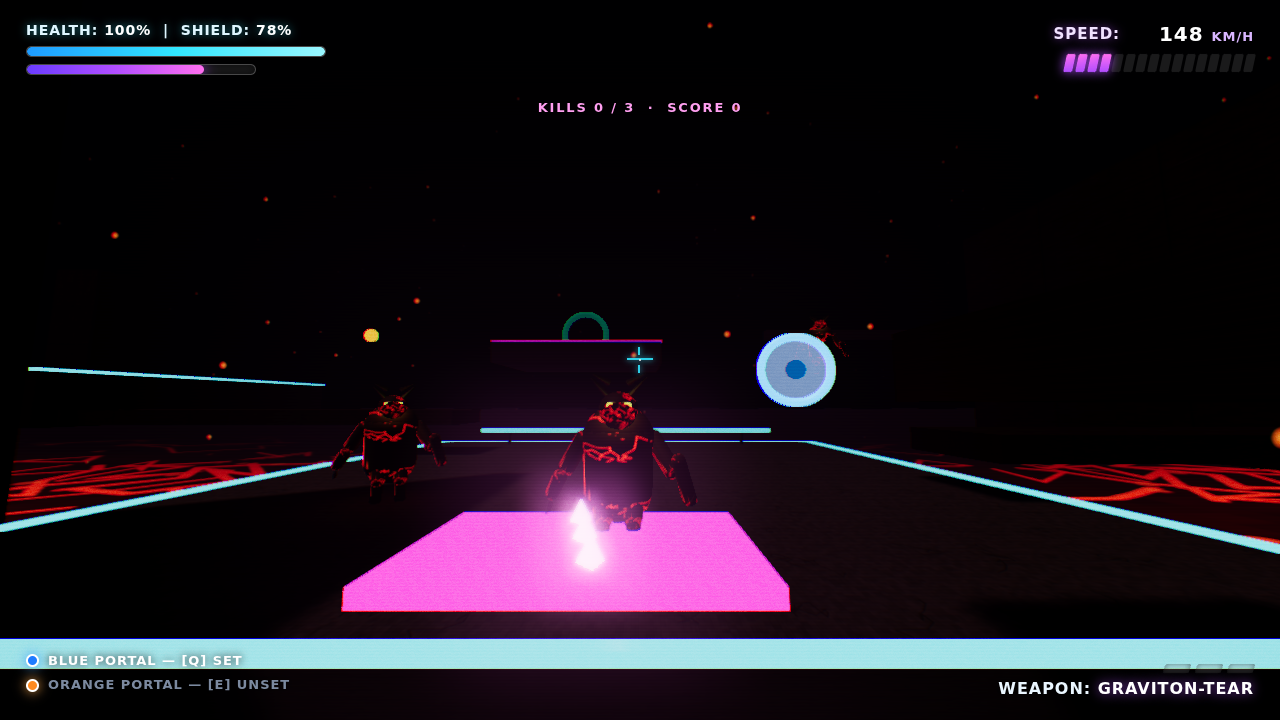
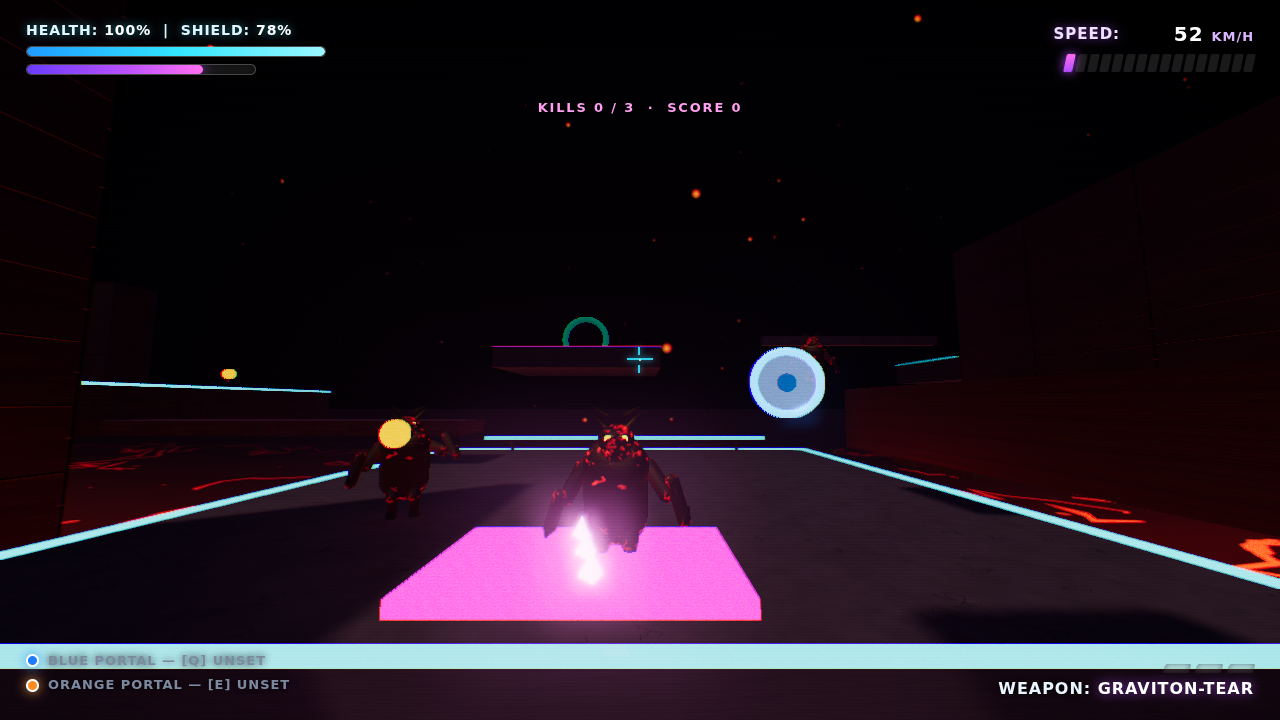
Realism pass: image-based lighting + smooth fractal textures
Address the "looks 8-bit" feedback by moving from flat CGI toward a
real-time-realistic look, still fully self-contained:

- Image-based lighting: procedural PMREM environment map so PBR metals
  reflect the room and lava instead of reading as flat colour.
- Replace blocky cell-noise with smooth multi-octave fbm noise at 1K, add
  micro-relief to normal maps and dedicated roughness maps — removes the
  pixelated/retro texture feel.
- Retune materials for real reflectivity (higher metalness + envMapIntensity),
  raise exposure, add a cool front fill light and soften shadows so surfaces
  and demons read naturally.
- Higher-res demon skin with normal-mapped relief and reflective sheen.

Verified in headless Chromium: PMREM + shaders compile clean and the full
three-wave win path still reaches the extraction screen, zero errors.

Claude-Session: https://claude.ai/code/session_01FgWhxTJSuTswFu6P8V75p6

diff --git a/index.html b/index.html
@@ -250,7 +250,7 @@ renderer.setSize(innerWidth, innerHeight);
 renderer.shadowMap.enabled = true;
 renderer.shadowMap.type = THREE.PCFSoftShadowMap;
 renderer.toneMapping = THREE.ACESFilmicToneMapping;
-renderer.toneMappingExposure = 1.18;
+renderer.toneMappingExposure = 1.35;
 renderer.outputColorSpace = THREE.SRGBColorSpace;
 $('#game').appendChild(renderer.domElement);
 
@@ -332,9 +332,9 @@ buildComposer();
 // ---------------------------------------------------------------------------
 //  Lighting — dark industrial with hot lava glow + neon accents
 // ---------------------------------------------------------------------------
-scene.add(new THREE.HemisphereLight(0x6a4c68, 0x201014, 0.8));
-scene.add(new THREE.AmbientLight(0x38304a, 0.34));
-const key = new THREE.DirectionalLight(0xffcdb0, 1.0);
+scene.add(new THREE.HemisphereLight(0x8a6684, 0x2a161a, 1.05));
+scene.add(new THREE.AmbientLight(0x4a4260, 0.42));
+const key = new THREE.DirectionalLight(0xffd4ba, 1.25);
 key.position.set(-40, 80, 30);
 key.castShadow = true;
 key.shadow.mapSize.set(2048,2048);
@@ -350,6 +350,9 @@ const lava2 = new THREE.PointLight(0xff3a08, 2.0, 200, 2); lava2.position.set(40
 // neon rim accents
 const neonA = new THREE.PointLight(0xb14dff, 1.6, 130, 2); neonA.position.set(20,14,-30); scene.add(neonA);
 const neonB = new THREE.PointLight(0x31e6ff, 1.4, 130, 2); neonB.position.set(-30,12,40); scene.add(neonB);
+// soft cool fill from the front so materials & demons read (no hard shadows)
+const fill = new THREE.DirectionalLight(0x9fb4d8, 0.5); fill.position.set(20,30,60); scene.add(fill);
+key.shadow.radius = 4; // softer, more realistic contact
 // flicker driver
 const flickers = [
   {l:lava, base:3.0, amt:0.6, spd:11, ph:0}, {l:lava2, base:2.0, amt:0.7, spd:7, ph:2},
@@ -357,17 +360,82 @@ const flickers = [
 ];
 
 // ---------------------------------------------------------------------------
+//  Image-based lighting — procedural HDR-ish environment so PBR metals
+//  reflect a real surrounding (the single biggest "CGI -> real" upgrade).
+// ---------------------------------------------------------------------------
+function buildEnvironment(){
+  const W=1024, H=512, c=document.createElement('canvas'); c.width=W; c.height=H;
+  const x=c.getContext('2d');
+  // vertical gradient: near-black sky -> deep purple -> hot orange horizon -> dark floor
+  const grd=x.createLinearGradient(0,0,0,H);
+  grd.addColorStop(0.00,'#161228'); grd.addColorStop(0.35,'#2c1c40');
+  grd.addColorStop(0.55,'#5a2838'); grd.addColorStop(0.66,'#ff7a2e');
+  grd.addColorStop(0.72,'#ff5218'); grd.addColorStop(0.85,'#3a1810'); grd.addColorStop(1.0,'#140a0c');
+  x.fillStyle=grd; x.fillRect(0,0,W,H);
+  // molten horizon glow band
+  const hg=x.createLinearGradient(0,H*0.6,0,H*0.78); hg.addColorStop(0,'rgba(255,120,40,0)');
+  hg.addColorStop(0.5,'rgba(255,150,60,0.55)'); hg.addColorStop(1,'rgba(255,80,20,0)');
+  x.fillStyle=hg; x.fillRect(0,H*0.55,W,H*0.28);
+  // dim neon strip lights around the room (become soft reflections on metal)
+  const strips=[['#b14dff',0.30],['#31e6ff',0.55],['#ff3df0',0.72],['#8a4dff',0.12],['#31e6ff',0.88]];
+  for(const [col,ux] of strips){ x.globalAlpha=0.5; x.fillStyle=col;
+    x.fillRect(ux*W-3, H*0.30, 6, H*0.16); }
+  // a few bright ceiling lamps
+  x.globalAlpha=0.7;
+  for(let i=0;i<6;i++){ x.fillStyle='#fff2d8'; x.beginPath();
+    x.ellipse((i+0.5)/6*W, H*0.14, 26, 8, 0, 0, 7); x.fill(); }
+  x.globalAlpha=1;
+  const eq=new THREE.CanvasTexture(c); eq.mapping=THREE.EquirectangularReflectionMapping; eq.colorSpace=THREE.SRGBColorSpace;
+  const pmrem=new THREE.PMREMGenerator(renderer); pmrem.compileEquirectangularShader();
+  const rt=pmrem.fromEquirectangular(eq);
+  scene.environment=rt.texture;
+  eq.dispose(); pmrem.dispose();
+}
+buildEnvironment();
+
+// ---------------------------------------------------------------------------
 //  Procedural PBR textures (canvas-generated: albedo + normal + roughness)
 // ---------------------------------------------------------------------------
 function makeCanvas(s){ const c=document.createElement('canvas'); c.width=c.height=s; return [c,c.getContext('2d')]; }
-function valueNoise(ctx,s,cells,alpha,color){
-  // soft blotchy noise for grime/rust variation
-  const cs=s/cells;
-  for(let y=0;y<cells;y++)for(let x=0;x<cells;x++){
-    const v=Math.random(); ctx.globalAlpha=alpha*v;
-    ctx.fillStyle=color; ctx.fillRect(x*cs,y*cs,cs+1,cs+1);
+function hexToRgb(h){ if(h[0]==='#')h=h.slice(1); const n=parseInt(h,16); return [(n>>16)&255,(n>>8)&255,n&255]; }
+
+// tileable fractal (value) noise field, 0..1, smooth — the antidote to blocky
+// "8-bit" texture noise. baseCells = largest feature count; octaves add detail.
+function fbmField(size, baseCells, octaves){
+  const out=new Float32Array(size*size); let amp=1, tot=0;
+  for(let o=0; o<octaves; o++){
+    const cells=Math.max(2, Math.round(baseCells*Math.pow(2,o)));
+    const grid=new Float32Array(cells*cells);
+    for(let i=0;i<grid.length;i++) grid[i]=Math.random();
+    const cs=size/cells;
+    const g=(ix,iy)=>grid[((iy%cells+cells)%cells)*cells + ((ix%cells+cells)%cells)];
+    for(let y=0;y<size;y++){ const gy=y/cs, y0=Math.floor(gy); let fy=gy-y0; fy=fy*fy*(3-2*fy);
+      for(let x=0;x<size;x++){ const gx=x/cs, x0=Math.floor(gx); let fx=gx-x0; fx=fx*fx*(3-2*fx);
+        const v=g(x0,y0)*(1-fx)*(1-fy)+g(x0+1,y0)*fx*(1-fy)+g(x0,y0+1)*(1-fx)*fy+g(x0+1,y0+1)*fx*fy;
+        out[y*size+x]+=v*amp;
+      }
+    }
+    tot+=amp; amp*=0.5;
   }
-  ctx.globalAlpha=1;
+  for(let i=0;i<out.length;i++) out[i]/=tot;
+  return out;
+}
+// paint a smooth grime/rust layer using an fbm mask (same call signature as before,
+// so every existing texture call now gets organic, non-pixelated variation)
+function valueNoise(ctx,s,cells,alpha,color,contrast=1.6){
+  const f=fbmField(s, Math.max(2,Math.round(cells/6)), 4);
+  const [cr,cg,cb]=hexToRgb(color);
+  const [lc,lx]=makeCanvas(s); const img=lx.createImageData(s,s);
+  for(let i=0;i<s*s;i++){ let v=Math.pow(f[i],contrast); img.data[i*4]=cr; img.data[i*4+1]=cg; img.data[i*4+2]=cb;
+    img.data[i*4+3]=Math.min(255, v*alpha*255); }
+  lx.putImageData(img,0,0); ctx.drawImage(lc,0,0);
+}
+// add fine fbm micro-relief straight into a height canvas (grayscale)
+function addMicroHeight(hx, s, amt){
+  const f=fbmField(s, 12, 5); const img=hx.getImageData(0,0,s,s);
+  for(let i=0;i<s*s;i++){ const d=(f[i]-0.5)*amt*255; img.data[i*4]=clamp(img.data[i*4]+d,0,255);
+    img.data[i*4+1]=img.data[i*4]; img.data[i*4+2]=img.data[i*4]; }
+  hx.putImageData(img,0,0);
 }
 // derive a normal map from a heightfield canvas
 function normalFromHeight(hCanvas, strength){
@@ -382,59 +450,62 @@ function normalFromHeight(hCanvas, strength){
     nd.data[i]=(dx/len*0.5+0.5)*255; nd.data[i+1]=(dy/len*0.5+0.5)*255; nd.data[i+2]=(nz/len*0.5+0.5)*255; nd.data[i+3]=255;
   }
   nctx.putImageData(nd,0,0);
-  const t=new THREE.CanvasTexture(nc); t.wrapS=t.wrapT=THREE.RepeatWrapping; return t;
+  const t=new THREE.CanvasTexture(nc); t.wrapS=t.wrapT=THREE.RepeatWrapping; t.anisotropy=8; return t;
 }
-function tex(c){ const t=new THREE.CanvasTexture(c); t.wrapS=t.wrapT=THREE.RepeatWrapping; t.anisotropy=4; return t; }
+function tex(c){ const t=new THREE.CanvasTexture(c); t.wrapS=t.wrapT=THREE.RepeatWrapping; t.anisotropy=8;
+  t.generateMipmaps=true; t.minFilter=THREE.LinearMipmapLinearFilter; return t; }
 
 // --- worn metal panel: albedo + height(for normal) + roughness ---
 function metalPanelTextures(base, seams=4){
-  const s=512, [ac,ax]=makeCanvas(s), [hc,hx]=makeCanvas(s), [rc,rx]=makeCanvas(s);
+  const s=1024, [ac,ax]=makeCanvas(s), [hc,hx]=makeCanvas(s), [rc,rx]=makeCanvas(s);
   ax.fillStyle=base; ax.fillRect(0,0,s,s);
   hx.fillStyle='#808080'; hx.fillRect(0,0,s,s);
-  rx.fillStyle='#b0b0b0'; rx.fillRect(0,0,s,s); // fairly rough
+  rx.fillStyle='#8a8a8a'; rx.fillRect(0,0,s,s);
   // brushed streaks
-  for(let i=0;i<2200;i++){ const y=Math.random()*s, x=Math.random()*s, w=Math.random()*40+8;
-    ax.globalAlpha=0.05; ax.strokeStyle=Math.random()<0.5?'#000':'#fff';
+  for(let i=0;i<5200;i++){ const y=Math.random()*s, x=Math.random()*s, w=Math.random()*70+14;
+    ax.globalAlpha=0.035; ax.strokeStyle=Math.random()<0.5?'#000':'#fff';
     ax.beginPath(); ax.moveTo(x,y); ax.lineTo(x+w,y); ax.stroke(); }
   ax.globalAlpha=1;
-  // rust / grime blotches
-  valueNoise(ax,s,24,0.5,'#4a2410'); valueNoise(ax,s,64,0.25,'#20120a');
-  valueNoise(ax,s,48,0.2,'#0a0a0c');
+  // rust / grime blotches (smooth fbm now)
+  valueNoise(ax,s,22,0.55,'#4a2410'); valueNoise(ax,s,60,0.30,'#20120a');
+  valueNoise(ax,s,44,0.22,'#0a0a0c'); valueNoise(ax,s,120,0.16,'#6a4a2a');
   // panel seams (grooves -> dark in height, dark in albedo)
   const cell=s/seams;
-  ax.strokeStyle='rgba(0,0,0,0.75)'; ax.lineWidth=3;
-  hx.strokeStyle='#202020'; hx.lineWidth=5;
+  ax.strokeStyle='rgba(0,0,0,0.78)'; ax.lineWidth=5;
+  hx.strokeStyle='#1a1a1a'; hx.lineWidth=8;
   for(let i=0;i<=seams;i++){ const p=i*cell;
     ax.beginPath();ax.moveTo(p,0);ax.lineTo(p,s);ax.moveTo(0,p);ax.lineTo(s,p);ax.stroke();
     hx.beginPath();hx.moveTo(p,0);hx.lineTo(p,s);hx.moveTo(0,p);hx.lineTo(s,p);hx.stroke();
   }
   // rivets along seams
   for(let i=0;i<=seams;i++)for(let j=0;j<seams;j++){
-    const cx=i*cell, cy=j*cell+cell*0.5;
-    for(const [rx0,ry0] of [[cx,cy]]){
-      ax.beginPath(); ax.fillStyle='rgba(255,255,255,0.18)'; ax.arc(rx0,ry0,3.2,0,7); ax.fill();
-      ax.beginPath(); ax.fillStyle='rgba(0,0,0,0.4)'; ax.arc(rx0,ry0+1.5,3.2,0,7); ax.fill();
-      hx.beginPath(); hx.fillStyle='#c8c8c8'; hx.arc(rx0,ry0,3.2,0,7); hx.fill();
-    }
+    const cx=i*cell, cy=j*cell+cell*0.5, rr=5.5;
+    ax.beginPath(); ax.fillStyle='rgba(255,255,255,0.20)'; ax.arc(cx,cy,rr,0,7); ax.fill();
+    ax.beginPath(); ax.fillStyle='rgba(0,0,0,0.45)'; ax.arc(cx,cy+2.5,rr,0,7); ax.fill();
+    hx.beginPath(); hx.fillStyle='#d0d0d0'; hx.arc(cx,cy,rr,0,7); hx.fill();
   }
-  // roughness variation follows grime
-  valueNoise(rx,s,24,0.5,'#ffffff'); valueNoise(rx,s,40,0.4,'#404040');
-  return { map:tex(ac), normalMap:normalFromHeight(hc,2.6), roughnessMap:tex(rc) };
+  addMicroHeight(hx, s, 0.22); // fine surface bumps
+  // roughness variation follows grime (rusty = rougher, bare metal = shinier)
+  valueNoise(rx,s,22,0.6,'#ffffff'); valueNoise(rx,s,44,0.4,'#303030'); valueNoise(rx,s,120,0.25,'#e0e0e0');
+  return { map:tex(ac), normalMap:normalFromHeight(hc,3.0), roughnessMap:tex(rc) };
 }
 // --- pitted concrete/floor ---
 function concreteTextures(base){
-  const s=512, [ac,ax]=makeCanvas(s), [hc,hx]=makeCanvas(s);
+  const s=1024, [ac,ax]=makeCanvas(s), [hc,hx]=makeCanvas(s), [rc,rx]=makeCanvas(s);
   ax.fillStyle=base; ax.fillRect(0,0,s,s);
   hx.fillStyle='#888'; hx.fillRect(0,0,s,s);
-  valueNoise(ax,s,64,0.4,'#000000'); valueNoise(ax,s,32,0.3,'#3a3030');
-  valueNoise(ax,s,96,0.25,'#151015'); valueNoise(hx,s,96,0.5,'#333');
-  valueNoise(hx,s,48,0.4,'#cccccc');
+  rx.fillStyle='#d8d8d8'; rx.fillRect(0,0,s,s); // concrete is rough
+  valueNoise(ax,s,60,0.4,'#000000'); valueNoise(ax,s,30,0.3,'#3a3030');
+  valueNoise(ax,s,110,0.25,'#151015'); valueNoise(ax,s,200,0.14,'#5a5060');
+  valueNoise(hx,s,90,0.5,'#333'); valueNoise(hx,s,45,0.4,'#cccccc');
+  valueNoise(rx,s,40,0.4,'#ffffff'); valueNoise(rx,s,100,0.3,'#9a9a9a');
   // cracks
   ax.strokeStyle='rgba(0,0,0,0.6)'; hx.strokeStyle='#222';
-  for(let k=0;k<10;k++){ let x=Math.random()*s,y=Math.random()*s; ax.lineWidth=hx.lineWidth=Math.random()*2+1;
+  for(let k=0;k<16;k++){ let x=Math.random()*s,y=Math.random()*s; ax.lineWidth=hx.lineWidth=Math.random()*2.5+1;
     ax.beginPath();hx.beginPath();ax.moveTo(x,y);hx.moveTo(x,y);
-    for(let seg=0;seg<12;seg++){ x+=(Math.random()-.5)*40; y+=(Math.random()-.5)*40; ax.lineTo(x,y);hx.lineTo(x,y);} ax.stroke();hx.stroke(); }
-  return { map:tex(ac), normalMap:normalFromHeight(hc,3.2) };
+    for(let seg=0;seg<14;seg++){ x+=(Math.random()-.5)*60; y+=(Math.random()-.5)*60; ax.lineTo(x,y);hx.lineTo(x,y);} ax.stroke();hx.stroke(); }
+  addMicroHeight(hx, s, 0.3);
+  return { map:tex(ac), normalMap:normalFromHeight(hc,3.6), roughnessMap:tex(rc) };
 }
 
 const metalTx  = metalPanelTextures('#33313a', 4);
@@ -445,14 +516,15 @@ const floorTx  = concreteTextures('#2b2732');
 //  Materials
 // ---------------------------------------------------------------------------
 const MAT = {
-  floor:  new THREE.MeshStandardMaterial({color:0x8a8090, roughness:.95, metalness:.15,
-             map:floorTx.map, normalMap:floorTx.normalMap, normalScale:new THREE.Vector2(1.1,1.1)}),
-  metal:  new THREE.MeshStandardMaterial({color:0x8f8a98, roughness:.7, metalness:.85,
+  floor:  new THREE.MeshStandardMaterial({color:0x9a90a0, roughness:1.0, metalness:.05,
+             map:floorTx.map, normalMap:floorTx.normalMap, roughnessMap:floorTx.roughnessMap,
+             normalScale:new THREE.Vector2(1.4,1.4), envMapIntensity:0.5}),
+  metal:  new THREE.MeshStandardMaterial({color:0xb5b0be, roughness:.55, metalness:.95,
              map:metalTx.map, normalMap:metalTx.normalMap, roughnessMap:metalTx.roughnessMap,
-             normalScale:new THREE.Vector2(1.3,1.3)}),
-  metal2: new THREE.MeshStandardMaterial({color:0x8a7580, roughness:.75, metalness:.8,
+             normalScale:new THREE.Vector2(1.5,1.5), envMapIntensity:1.0}),
+  metal2: new THREE.MeshStandardMaterial({color:0xb09aa5, roughness:.6, metalness:.92,
              map:metal2Tx.map, normalMap:metal2Tx.normalMap, roughnessMap:metal2Tx.roughnessMap,
-             normalScale:new THREE.Vector2(1.3,1.3)}),
+             normalScale:new THREE.Vector2(1.5,1.5), envMapIntensity:1.0}),
   trim:   new THREE.MeshStandardMaterial({color:0x120910, roughness:.4, metalness:.9,
              emissive:0xb14dff, emissiveIntensity:.7}),
   rail:   new THREE.MeshStandardMaterial({color:0x101018, roughness:.3, metalness:.95,
@@ -476,12 +548,12 @@ function tileMat(mat, w,h,d){
 // ---------------------------------------------------------------------------
 // molten crust texture: dark rock plates with glowing magma seams
 const lavaTx = (()=>{
-  const s=512, [ac,ax]=makeCanvas(s), [ec,ex]=makeCanvas(s);
+  const s=1024, [ac,ax]=makeCanvas(s), [ec,ex]=makeCanvas(s);
   ax.fillStyle='#1c0a05'; ax.fillRect(0,0,s,s);
   ex.fillStyle='#000'; ex.fillRect(0,0,s,s);
-  valueNoise(ax,s,20,0.6,'#3a1508'); valueNoise(ax,s,40,0.4,'#0a0402');
+  valueNoise(ax,s,18,0.6,'#3a1508'); valueNoise(ax,s,38,0.4,'#0a0402'); valueNoise(ax,s,90,0.25,'#5a2810');
   // crack network of glowing magma
-  for(let k=0;k<70;k++){ let x=Math.random()*s,y=Math.random()*s;
+  for(let k=0;k<140;k++){ let x=Math.random()*s,y=Math.random()*s;
     const w=Math.random()*4+1.5;
     ex.strokeStyle='#ff7a1e'; ex.lineWidth=w; ex.lineCap='round'; ex.beginPath(); ex.moveTo(x,y);
     for(let seg=0;seg<6;seg++){ x+=(Math.random()-.5)*70; y+=(Math.random()-.5)*70; ex.lineTo(x,y);} ex.stroke();
@@ -791,29 +863,34 @@ const enemies = [];
 
 // charred demon skin: dark cracked flesh with glowing lava veins (emissiveMap)
 function demonSkin(){
-  const s=256, [ac,ax]=makeCanvas(s), [ec,ex]=makeCanvas(s);
+  const s=512, [ac,ax]=makeCanvas(s), [ec,ex]=makeCanvas(s), [hc,hx]=makeCanvas(s);
   ax.fillStyle='#1a0608'; ax.fillRect(0,0,s,s);
-  valueNoise(ax,s,32,0.6,'#0a0303'); valueNoise(ax,s,48,0.4,'#2c0d0d');
+  hx.fillStyle='#808080'; hx.fillRect(0,0,s,s);
+  valueNoise(ax,s,30,0.6,'#0a0303'); valueNoise(ax,s,50,0.4,'#2c0d0d'); valueNoise(ax,s,110,0.25,'#3a1512');
   ex.fillStyle='#000'; ex.fillRect(0,0,s,s);
-  // glowing crack veins
-  for(let k=0;k<26;k++){ let x=Math.random()*s,y=Math.random()*s;
-    ex.strokeStyle='#ff5a12'; ex.lineWidth=Math.random()*2+1; ex.beginPath(); ex.moveTo(x,y);
-    ax.strokeStyle='#000'; ax.lineWidth=ex.lineWidth+2; ax.beginPath(); ax.moveTo(x,y);
-    for(let seg=0;seg<8;seg++){ x+=(Math.random()-.5)*34; y+=(Math.random()-.5)*34; ex.lineTo(x,y); ax.lineTo(x,y);} ex.stroke(); ax.stroke(); }
+  // glowing crack veins (albedo darkens around them, height sinks)
+  for(let k=0;k<40;k++){ let x=Math.random()*s,y=Math.random()*s;
+    ex.strokeStyle='#ff5a12'; ex.lineWidth=Math.random()*3+1; ex.lineCap='round'; ex.beginPath(); ex.moveTo(x,y);
+    ax.strokeStyle='#000'; ax.lineWidth=ex.lineWidth+3; ax.beginPath(); ax.moveTo(x,y);
+    hx.strokeStyle='#3a3a3a'; hx.lineWidth=ex.lineWidth+3; hx.beginPath(); hx.moveTo(x,y);
+    for(let seg=0;seg<8;seg++){ x+=(Math.random()-.5)*40; y+=(Math.random()-.5)*40; ex.lineTo(x,y); ax.lineTo(x,y); hx.lineTo(x,y);} ex.stroke(); ax.stroke(); hx.stroke(); }
   // hot spots
-  for(let k=0;k<40;k++){ ex.globalAlpha=Math.random()*0.6; ex.fillStyle='#ffdd55';
-    ex.beginPath(); ex.arc(Math.random()*s,Math.random()*s,Math.random()*2+0.5,0,7); ex.fill(); }
+  for(let k=0;k<70;k++){ ex.globalAlpha=Math.random()*0.6; ex.fillStyle='#ffdd55';
+    ex.beginPath(); ex.arc(Math.random()*s,Math.random()*s,Math.random()*2.5+0.5,0,7); ex.fill(); }
   ex.globalAlpha=1;
-  return { map:tex(ac), emissiveMap:tex(ec) };
+  // warty skin bumps
+  addMicroHeight(hx, s, 0.5);
+  return { map:tex(ac), emissiveMap:tex(ec), normalMap:normalFromHeight(hc,2.4) };
 }
 const DEMON_TX = demonSkin();
 
 function makeDemon(){
   const g = new THREE.Group();
   const skin = new THREE.MeshStandardMaterial({
-    color:0x6a2a26, roughness:.75, metalness:.1,
-    map:DEMON_TX.map, emissive:0xff4a1a, emissiveMap:DEMON_TX.emissiveMap, emissiveIntensity:1.5});
-  const boneMat = new THREE.MeshStandardMaterial({color:0x141014, roughness:.45, metalness:.55});
+    color:0x6a2a26, roughness:.62, metalness:.15,
+    map:DEMON_TX.map, normalMap:DEMON_TX.normalMap, normalScale:new THREE.Vector2(1.2,1.2),
+    emissive:0xff4a1a, emissiveMap:DEMON_TX.emissiveMap, emissiveIntensity:1.5, envMapIntensity:0.6});
+  const boneMat = new THREE.MeshStandardMaterial({color:0x141014, roughness:.4, metalness:.6, envMapIntensity:0.8});
 
   // hunched, tapered torso
   const torso = new THREE.Mesh(new THREE.CapsuleGeometry(0.62,1.15,8,16), skin);

diff --git a/CHANGELOG.md b/CHANGELOG.md
@@ -2,6 +2,12 @@
 
 All notable changes to this project will be documented in this file.
 
+## 2026-07-20 — Realism pass (de-"8-bit")
+- Added image-based lighting: a procedural PMREM environment map so PBR metals reflect the room/lava instead of looking flat.
+- Replaced blocky cell-noise with smooth multi-octave fractal (fbm) noise and raised all textures to 1K, adding fine micro-relief to the normal maps and dedicated roughness maps — kills the pixelated/retro texture look.
+- Retuned materials for real reflectivity (higher metalness + envMapIntensity), brighter exposure, a cool front fill light and softer shadows so surfaces and demons read naturally.
+- Higher-resolution demon skin with normal-mapped warty relief and reflective sheen.
+
 ## 2026-07-20 — Visual overhaul: realistic, scary, high-quality
 - Added a cinematic post-processing pipeline (vendored under `vendor/jsm/`): EffectComposer + UnrealBloom + a custom atmosphere pass (film grain, vignette, chromatic aberration, low-HP screen warp) + FXAA + ACES tone-mapping.
 - Replaced flat-colour surfaces with procedural PBR materials: canvas-generated worn metal (rivets/rust/seams), pitted concrete and molten magma, each with a derived normal map for real surface relief.

diff --git a/README.md b/README.md
@@ -54,8 +54,9 @@ Mobile/touch is supported too: left virtual stick to move, drag the right side t
 
 The game aims for a moody, cinematic, "realistic-but-hellish" look — entirely from code, no image/model files shipped:
 
+- **Image-based lighting** — a procedural environment map so the PBR metals actually reflect the surrounding room and lava (the main "flat CGI → real" upgrade), generated with `PMREMGenerator` at load.
 - **Cinematic post-processing** — a full `EffectComposer` chain: ACES tone-mapping, **UnrealBloom** for the neon/lava glow, a custom atmosphere pass (film grain, edge vignette, chromatic aberration, a low-HP red pulse that warps the screen), and FXAA.
-- **Procedural PBR textures** — worn brushed-metal panels with rivets and rust, pitted cracked concrete, and molten magma — each generated on a canvas at load with matching **normal maps** derived from a heightfield, so surfaces catch light with real relief.
+- **Procedural PBR textures** — worn brushed-metal panels with rivets and rust, pitted cracked concrete, and molten magma — built at load from smooth **fractal (fbm) noise** (no blocky pixel-noise) at 1K resolution, each with a **normal + roughness map** derived from a heightfield so surfaces catch light and reflections with real relief.
 - **Scary demons** — built from geometry: hunched charred bodies with glowing lava-vein skin (emissive map), horned skulls, fangs, clawed arms and digitigrade legs, with a stalking gait, head-tracking and a lunge on attack.
 - **Atmosphere** — thick fog, hundreds of rising embers, flickering fire/failing-neon lights, animated flowing lava, and a continuous sub-bass dread drone.
 